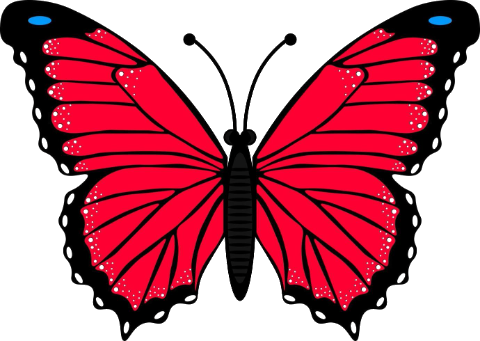
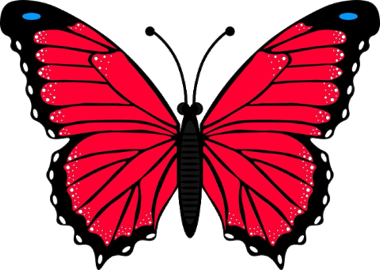
Production hardening: optimize images, a11y, README/LICENSE, repo cleanup
- Images: resize/recompress the Guru Ji photos with sips (~10MB -> 1.3MB),
  convert oversized PNG photos to JPEG, shrink the butterfly PNG, and delete
  the now-unused img_6.png. Update gallery references accordingly.
- Accessibility: template thumbnails and photo-gallery items are now real
  <button>s (keyboard + screen-reader accessible) with aria-pressed/labels and
  visible focus rings; decorative SVGs marked aria-hidden; photo has alt text.
- Docs/hygiene: add README and an MIT LICENSE; remove the empty composer.json.

Verified: photos load, controls work via mouse and keyboard, templates render,
no console errors.

diff --git a/index.html b/index.html
@@ -34,15 +34,15 @@
 
     <h2><span class="step">2</span>Choose Guru Ji&rsquo;s Photo</h2>
     <div class="photo-gallery" id="photoGallery">
-      <div class="pg-item" data-src="assets/guruji/guruji-3.jpg" style="background-image:url('assets/guruji/guruji-3.jpg')"></div>
-      <div class="pg-item" data-src="assets/guruji/guruji-1.png" style="background-image:url('assets/guruji/guruji-1.png')"></div>
-      <div class="pg-item" data-src="assets/guruji/img.png" style="background-image:url('assets/guruji/img.png')"></div>
-      <div class="pg-item" data-src="assets/guruji/img_1.png" style="background-image:url('assets/guruji/img_1.png')"></div>
-      <div class="pg-item" data-src="assets/guruji/img_2.png" style="background-image:url('assets/guruji/img_2.png')"></div>
-      <div class="pg-item" data-src="assets/guruji/img_3.png" style="background-image:url('assets/guruji/img_3.png')"></div>
-      <div class="pg-item" data-src="assets/guruji/img_4.png" style="background-image:url('assets/guruji/img_4.png')"></div>
-      <div class="pg-item" data-src="assets/guruji/img_5.png" style="background-image:url('assets/guruji/img_5.png')"></div>
-      <div class="pg-item pg-none" data-src="">No&nbsp;photo</div>
+      <button type="button" class="pg-item" data-src="assets/guruji/guruji-3.jpg" style="background-image:url('assets/guruji/guruji-3.jpg')" aria-label="Guru Ji photo 1"></button>
+      <button type="button" class="pg-item" data-src="assets/guruji/guruji-1.jpg" style="background-image:url('assets/guruji/guruji-1.jpg')" aria-label="Guru Ji photo 2"></button>
+      <button type="button" class="pg-item" data-src="assets/guruji/img.jpg" style="background-image:url('assets/guruji/img.jpg')" aria-label="Guru Ji photo 3"></button>
+      <button type="button" class="pg-item" data-src="assets/guruji/img_1.jpg" style="background-image:url('assets/guruji/img_1.jpg')" aria-label="Guru Ji photo 4"></button>
+      <button type="button" class="pg-item" data-src="assets/guruji/img_2.jpg" style="background-image:url('assets/guruji/img_2.jpg')" aria-label="Guru Ji photo 5"></button>
+      <button type="button" class="pg-item" data-src="assets/guruji/img_3.jpg" style="background-image:url('assets/guruji/img_3.jpg')" aria-label="Guru Ji photo 6"></button>
+      <button type="button" class="pg-item" data-src="assets/guruji/img_4.jpg" style="background-image:url('assets/guruji/img_4.jpg')" aria-label="Guru Ji photo 7"></button>
+      <button type="button" class="pg-item" data-src="assets/guruji/img_5.jpg" style="background-image:url('assets/guruji/img_5.jpg')" aria-label="Guru Ji photo 8"></button>
+      <button type="button" class="pg-item pg-none" data-src="" aria-label="No photo">No&nbsp;photo</button>
     </div>
     <label>&hellip; or upload your own</label>
     <input type="file" id="photo" accept="image/*" />
@@ -87,7 +87,7 @@
     <div class="card t-pink" data-tpl="t-pink">
       <div class="arch"></div>
       <div class="content">
-        <img class="ji-photo" data-photo style="display:none" />
+        <img class="ji-photo" data-photo alt="Guru Ji" style="display:none" />
         <div class="blessing" data-bind="blessing"></div>
         <div class="title">Guru Ji&rsquo;s Satsang</div>
         <div class="datebar">
@@ -109,7 +109,7 @@
       <div class="content">
         <div class="jai">Jai Guru Ji</div>
         <div class="blessing" data-bind="blessing"></div>
-        <img class="ji-photo" data-photo style="display:none" />
+        <img class="ji-photo" data-photo alt="Guru Ji" style="display:none" />
         <div class="title">Guru ji Ka Satsang</div>
         <div class="datebar">
           <div class="side" data-bind="day"></div>
@@ -131,7 +131,7 @@
       <div class="content">
         <div class="om">&#x950;</div>
         <div class="jai">JAI GURU JI</div>
-        <img class="ji-photo" data-photo style="display:none" />
+        <img class="ji-photo" data-photo alt="Guru Ji" style="display:none" />
         <div class="title">Guru Ji&rsquo;s Satsang</div>
         <div class="orn">&#10070; &mdash;&mdash; &#10070; &mdash;&mdash; &#10070;</div>
         <div class="blessing" data-bind="blessing"></div>
@@ -148,7 +148,7 @@
       <div class="panel"></div>
       <div class="content">
         <div class="jai">JAI GURU JI</div>
-        <img class="ji-photo" data-photo style="display:none" />
+        <img class="ji-photo" data-photo alt="Guru Ji" style="display:none" />
         <div class="title">Guru Ji Ka Satsang</div>
         <div class="orn">&#10070; &bull; &#10070;</div>
         <div class="blessing" data-bind="blessing"></div>
@@ -164,7 +164,7 @@
     <div class="card t-rose" data-tpl="t-rose">
       <div class="content">
         <div class="jai">JAI GURU JI</div>
-        <img class="ji-photo" data-photo style="display:none" />
+        <img class="ji-photo" data-photo alt="Guru Ji" style="display:none" />
         <div class="title">Guru Ji&rsquo;s Satsang</div>
         <div class="orn">&#9670; &mdash;&mdash;&mdash; &#9670;</div>
         <div class="blessing" data-bind="blessing"></div>
@@ -182,7 +182,7 @@
       <div class="content">
         <div class="om">&#x950;</div>
         <div class="jai">JAI GURU JI</div>
-        <img class="ji-photo" data-photo style="display:none" />
+        <img class="ji-photo" data-photo alt="Guru Ji" style="display:none" />
         <div class="title">Guruji Ka Satsang</div>
         <div class="orn">&mdash;&mdash; &#10047; &mdash;&mdash;</div>
         <div class="blessing" data-bind="blessing"></div>
@@ -198,7 +198,7 @@
       <div class="panel"></div>
       <div class="content">
         <div class="jai">JAI GURU JI</div>
-        <img class="ji-photo" data-photo style="display:none" />
+        <img class="ji-photo" data-photo alt="Guru Ji" style="display:none" />
         <div class="title">Guru Ji Ka Satsang</div>
         <div class="orn">&#10070; &bull; &#10070;</div>
         <div class="blessing" data-bind="blessing"></div>
@@ -216,7 +216,7 @@
       <div class="content">
         <div class="jai">JAI GURU JI</div>
         <div class="shabad">OM NAMAH SHIVAY &middot; GURU JI SADA SAHAY</div>
-        <img class="ji-photo" data-photo style="display:none" />
+        <img class="ji-photo" data-photo alt="Guru Ji" style="display:none" />
         <div class="title">Guru Ji Ka Satsang</div>
         <div class="orn">&#10070; &bull; &#10070;</div>
         <div class="blessing" data-bind="blessing"></div>
@@ -232,7 +232,7 @@
     <div class="card t-velvetred" data-tpl="t-velvetred">
       <div class="goldframe"></div>
       <div class="content">
-        <img class="ji-photo" data-photo style="display:none" />
+        <img class="ji-photo" data-photo alt="Guru Ji" style="display:none" />
         <div class="jai">JAI GURU JI</div>
         <div class="title">Guru Ji Ka Satsang</div>
         <div class="divider"><span></span><i class="fa-solid fa-gem"></i><span></span></div>
@@ -250,7 +250,7 @@
       <div class="content">
         <div class="jai">Jai Guru Ji</div>
         <div class="blessing" data-bind="blessing"></div>
-        <img class="ji-photo" data-photo style="display:none" />
+        <img class="ji-photo" data-photo alt="Guru Ji" style="display:none" />
         <div class="title">Guru Ji Ka Satsang</div>
         <div class="datebar">
           <div class="side" data-bind="day"></div>
@@ -268,7 +268,7 @@
     <!-- FLORAL MANDIR -->
     <div class="card t-mandir show" data-tpl="t-mandir">
       <div class="content">
-        <img class="ji-photo" data-photo style="display:none" />
+        <img class="ji-photo" data-photo alt="Guru Ji" style="display:none" />
         <div class="blessing" data-bind="blessing"></div>
         <div class="title">Guru Ji&rsquo;s Satsang</div>
         <div class="datewrap">
@@ -289,7 +289,7 @@
       <div class="content">
         <div class="om">&#x950;</div>
         <div class="jai">JAI GURU JI</div>
-        <img class="ji-photo" data-photo style="display:none" />
+        <img class="ji-photo" data-photo alt="Guru Ji" style="display:none" />
         <div class="title">Guru Ji&rsquo;s Satsang</div>
         <div class="orn">&#10070; &mdash;&mdash; &#10070; &mdash;&mdash; &#10070;</div>
         <div class="blessing" data-bind="blessing"></div>
@@ -306,7 +306,7 @@
       <div class="content">
         <div class="om">&#x950;</div>
         <div class="jai">JAI GURU JI</div>
-        <img class="ji-photo" data-photo style="display:none" />
+        <img class="ji-photo" data-photo alt="Guru Ji" style="display:none" />
         <div class="title">Guru Ji&rsquo;s Satsang</div>
         <div class="orn">&#10070; &mdash;&mdash; &#10070; &mdash;&mdash; &#10070;</div>
         <div class="blessing" data-bind="blessing"></div>
@@ -322,7 +322,7 @@
     <div class="card t-lotuspond" data-tpl="t-lotuspond">
       <div class="content">
         <div class="jai">JAI GURU JI</div>
-        <img class="ji-photo" data-photo style="display:none" />
+        <img class="ji-photo" data-photo alt="Guru Ji" style="display:none" />
         <div class="title">Guru Ji&rsquo;s Satsang</div>
         <div class="orn">&#10047; &bull; &#10047;</div>
         <div class="blessing" data-bind="blessing"></div>
@@ -339,7 +339,7 @@
       <div class="content">
         <div class="om">&#x950;</div>
         <div class="jai">JAI GURU JI</div>
-        <img class="ji-photo" data-photo style="display:none" />
+        <img class="ji-photo" data-photo alt="Guru Ji" style="display:none" />
         <div class="title">Guru Ji&rsquo;s Satsang</div>
         <div class="orn">&#10070; &mdash;&mdash; &#10070; &mdash;&mdash; &#10070;</div>
         <div class="blessing" data-bind="blessing"></div>
@@ -355,7 +355,7 @@
     <div class="card t-marigold" data-tpl="t-marigold">
       <div class="content">
         <div class="jai">JAI GURU JI</div>
-        <img class="ji-photo" data-photo style="display:none" />
+        <img class="ji-photo" data-photo alt="Guru Ji" style="display:none" />
         <div class="title">Guru Ji&rsquo;s Satsang</div>
         <div class="orn">&#10047; &bull; &#10047;</div>
         <div class="blessing" data-bind="blessing"></div>

diff --git a/app.js b/app.js
@@ -355,16 +355,23 @@ function setActiveTemplate(id) {
   document.querySelector(".card.show")?.classList.remove("show");
   document.querySelector(`.card[data-tpl="${id}"]`).classList.add("show");
   current = id;
-  document.querySelectorAll(".tpl-thumb").forEach(n => n.classList.toggle("active", n.dataset.tpl === id));
+  document.querySelectorAll(".tpl-thumb").forEach(n => {
+    const on = n.dataset.tpl === id;
+    n.classList.toggle("active", on);
+    n.setAttribute("aria-pressed", on ? "true" : "false");
+  });
   const t = templates.find(x => x.id === id);
   if (previewCap) previewCap.textContent = t ? t.name : "";
 }
 
 templates.forEach(t => {
-  const el = document.createElement("div");
+  const el = document.createElement("button");
+  el.type = "button";
   el.className = "tpl-thumb" + (t.id === current ? " active" : "");
   el.style.background = t.bg;
   el.dataset.tpl = t.id;
+  el.setAttribute("aria-label", t.name + " template");
+  el.setAttribute("aria-pressed", t.id === current ? "true" : "false");
   const span = document.createElement("span"); span.textContent = t.name; el.appendChild(span);
   el.onclick = () => { setActiveTemplate(t.id); saveState(); };
   tplWrap.appendChild(el);
@@ -551,5 +558,6 @@ if (!restoreState()) {
   if (first) { first.classList.add("active"); setPhoto(first.dataset.src); }
 }
 setActiveTemplate(current);   // ensure caption + active states are in sync
+document.querySelectorAll(".card svg").forEach(s => s.setAttribute("aria-hidden", "true")); // decorative art
 fitStage();
 ready = true;   // enable autosave now that initial state is applied

diff --git a/styles.css b/styles.css
@@ -551,3 +551,12 @@ footer.site a:hover { text-decoration:underline; }
   .brand { gap:10px; } header.site h1 { font-size:19px; } header.site p { font-size:13px; }
   .action-row { flex-direction:column; }
 }
+
+/* ---- Accessibility: button-based template & photo controls ---- */
+.tpl-thumb, .pg-item { appearance:none; -webkit-appearance:none; font-family:inherit; }
+.tpl-thumb { padding:0 0 5px; color:#5a3a14; }
+.pg-item { padding:0; }
+.tpl-thumb:focus-visible, .pg-item:focus-visible, .seg-btn:focus-visible,
+.btn:focus-visible, .btn-ghost:focus-visible {
+  outline:2px solid var(--accent); outline-offset:2px;
+}

diff --git a/README.md b/README.md
@@ -1,0 +1,66 @@
+# Guru Ji's Satsang — Invitation Maker
+
+A free, browser-based tool to create and share a beautiful **Guru Ji Satsang invitation**. Pick a template, fill in your details, and download a print-quality image (PNG/JPG/PDF) or share it straight to WhatsApp.
+
+**Live:** https://nikhilku.github.io/guruji-invitation-maker/
+
+## Features
+
+- **16 templates** — a range of styles (Floral Mandir, Royal Mandap, Diya Glow, Divine Aura, Lotus Pond, Marigold Garland, Velvet Butterflies, Rose Garden, Divine Shiva, Midnight Gold, and more), all rendered with CSS/SVG.
+- **Live preview** — every field updates the invitation instantly; the preview stays pinned while you scroll on desktop.
+- **Smart date** — the weekday, day number (with ordinal), month and year are derived automatically from a single date picker.
+- **Choose or upload a photo** — pick a Guru Ji photo or upload your own (your upload stays in your browser).
+- **High-resolution export** — download a 3× PNG or JPG, or a PDF; or use the **Share** button (Web Share API → WhatsApp and other apps on mobile).
+- **Auto-save** — your details are saved in the browser (localStorage), so a refresh won't lose your work. A "Reset to sample defaults" button is available.
+
+## Privacy
+
+Everything runs **client-side** — there is no backend. Your text and any photo you upload never leave your browser; nothing is uploaded to a server.
+
+## Tech
+
+Plain **HTML + CSS + vanilla JavaScript**, no build step. Two runtime libraries are loaded from a CDN:
+
+- [html2canvas](https://html2canvas.hertzen.com/) — renders the invitation to a canvas for export
+- [jsPDF](https://github.com/parallax/jsPDF) — wraps the rendered image into a PDF
+
+Fonts come from Google Fonts; a few icons from Font Awesome.
+
+## Run locally
+
+No tooling required — just serve the folder over HTTP (needed so the browser can load the images/fonts):
+
+```bash
+python3 -m http.server 8000
+# then open http://localhost:8000
+```
+
+## Project structure
+
+```
+index.html    # markup: the form (left) and the live-preview card stage (right)
+styles.css    # all styling, including one block per template (.t-<name>)
+app.js        # template registry, decorative SVG generators, live binding,
+              # date logic, photo handling, persistence, and export/share
+assets/guruji # Guru Ji photos and a few decorative images
+```
+
+## Adding a template
+
+Each template currently lives in three places:
+
+1. **`app.js`** — add an entry to the `templates` array (`id`, display `name`, and a `bg` used for its thumbnail). If it needs decorative art (garlands, lamps, rays, …), add an injector in the decoration section.
+2. **`index.html`** — add a `<div class="card t-<id>" data-tpl="t-<id>">` with the standard `data-bind` fields (`blessing`, `fulldate`, `time`, `langar`, `venue`, `names`, `phone`) and a `<img class="ji-photo" data-photo>`.
+3. **`styles.css`** — add a `.t-<id> …` block for the background, frame, photo, title and text styling.
+
+Keep the date as a single centered `bigdate` line (or use the `1fr auto 1fr` date-bar grid) and keep "Followed by Langar Prasad" right after the time.
+
+## Deployment
+
+Hosted on **GitHub Pages**. Pushing to `main` triggers the workflow in `.github/workflows/static.yml`, which publishes the site automatically.
+
+## License
+
+[MIT](LICENSE) © Nikhil Kumar
+
+Guru Ji photographs are used for devotional/illustrative purposes; please ensure you have the rights to any images you add.
